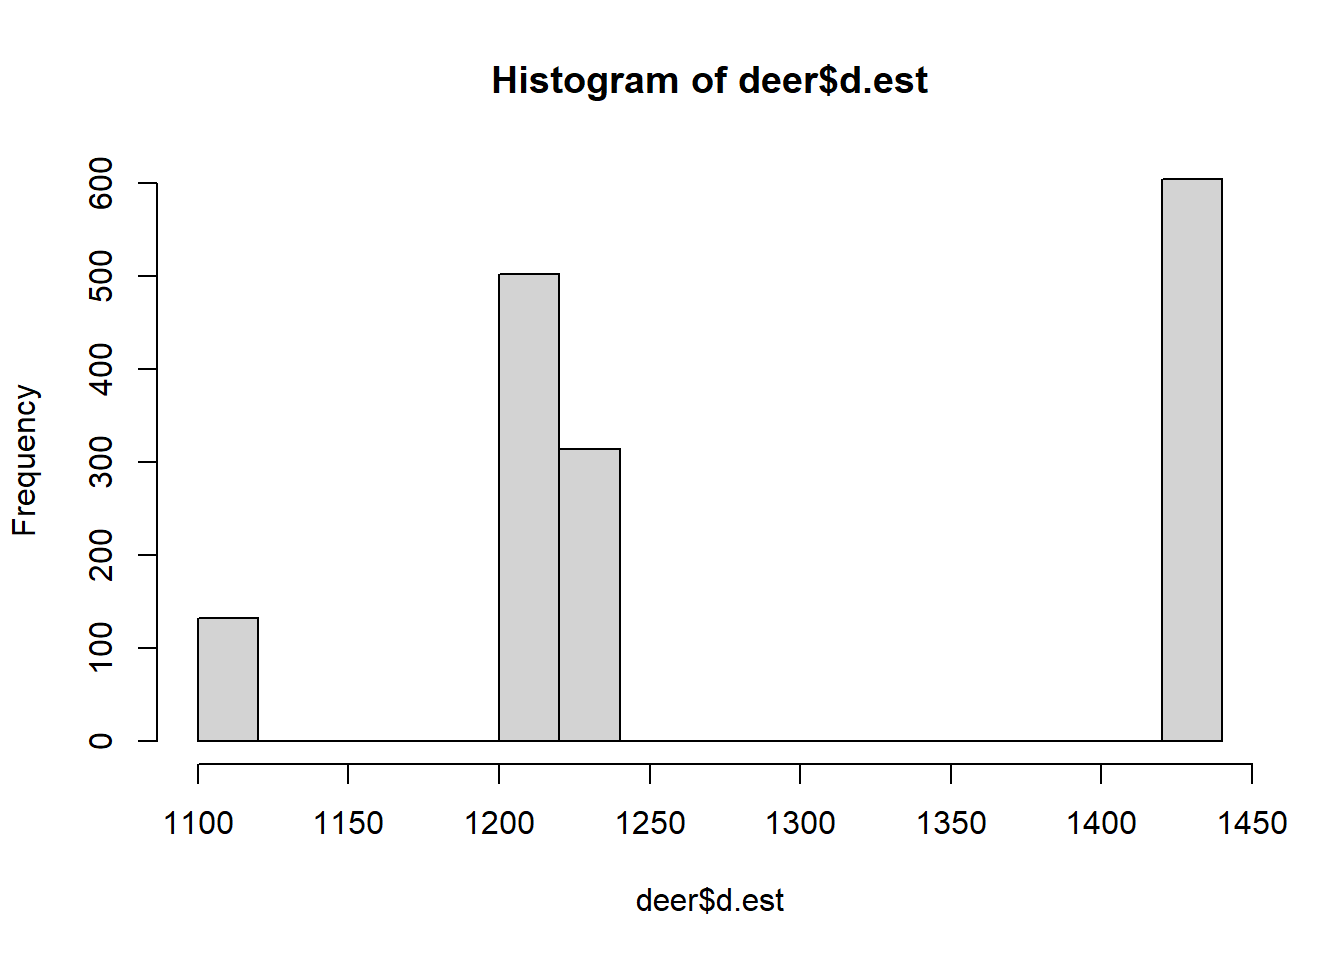
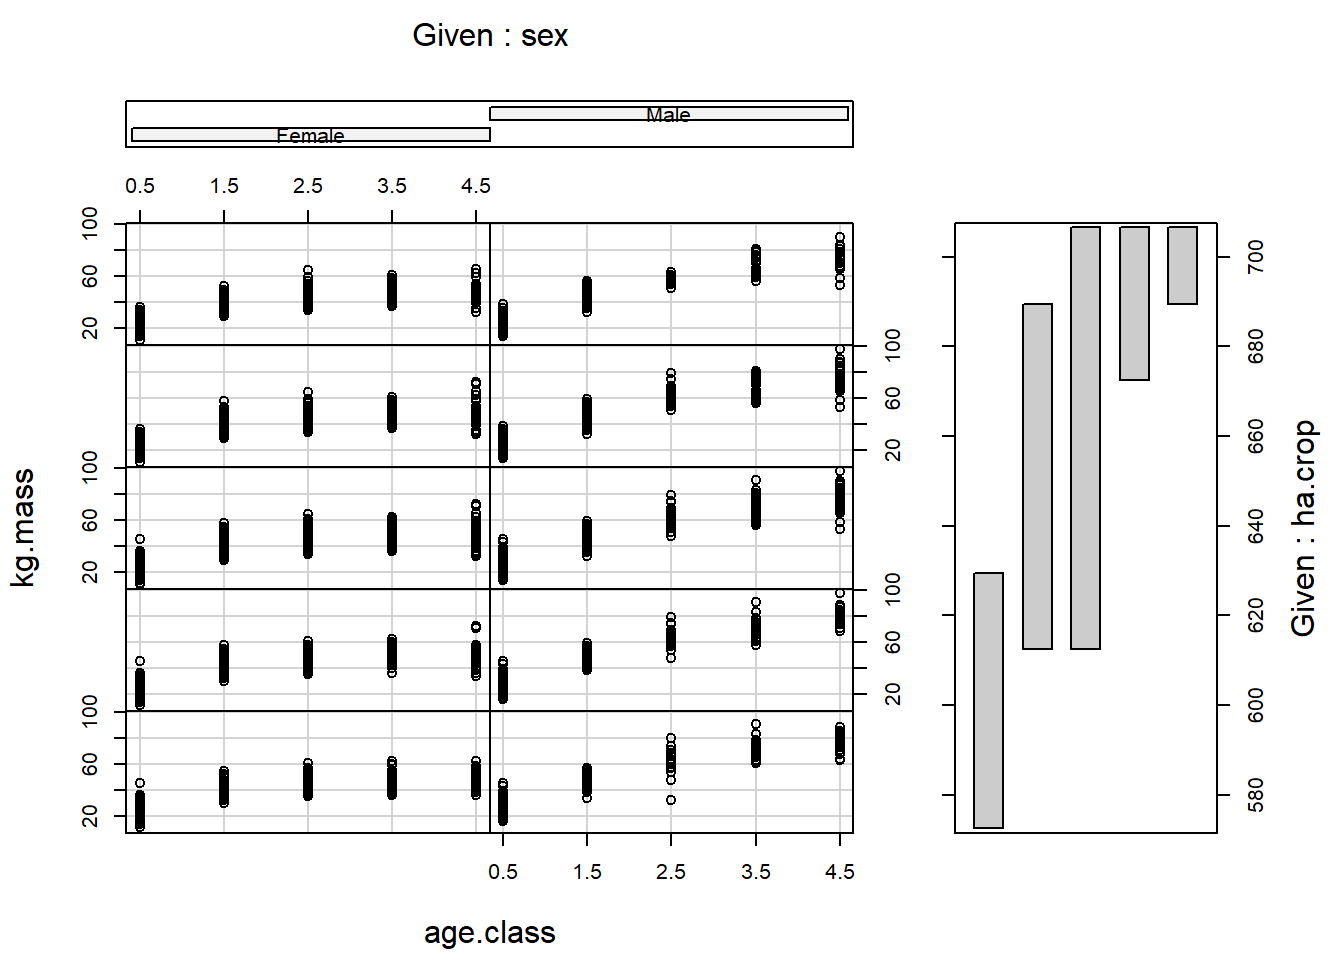
"final" bayesian mixed models lab

diff --git a/05-D-Bayesian-Mixed-Models.html b/05-D-Bayesian-Mixed-Models.html
@@ -11,7 +11,7 @@
 
 
 
-<title>Confidence Intervals for Mixed Models</title>
+<title>Bayesian Mixed Models: Choose your own adventure!</title>
 
 <script src="site_libs/header-attrs-2.31/header-attrs.js"></script>
 <script src="site_libs/jquery-3.6.0/jquery-3.6.0.min.js"></script>
@@ -578,22 +578,12 @@ div.tocify {
 
 
 
-<h1 class="title toc-ignore">Confidence Intervals for Mixed Models</h1>
+<h1 class="title toc-ignore">Bayesian Mixed Models: Choose your own
+adventure!</h1>
 
 </div>
 
 
-<p><strong>Assigned Reading:</strong></p>
-<ul>
-<li>Shipley, J. R., Twining, C. W., Taff, C. C., Vitousek, M. N., &amp;
-Winkler, D. W. (2022). Selection counteracts developmental plasticity in
-body-size responses to climate change. Nature Climate Change, 12(9),
-863-868.</li>
-<li>Christensen, S. A., Ruder, M. G., Williams, D. M., Porter, W. F.,
-&amp; Stallknecht, D. E. (2020). The role of drought as a determinant of
-hemorrhagic disease in the eastern United States. Global Change Biology,
-26(7), 3799-3808.</li>
-</ul>
 <div id="overview" class="section level2">
 <h2>Overview</h2>
 <p>This week, it’s “choose your own adventure” time. I want you to work
@@ -661,16 +651,12 @@ deer.</strong></p>
 <span id="cb1-39"><a href="#cb1-39" tabindex="-1"></a>deer<span class="sc">$</span>age.class <span class="ot">&lt;-</span> <span class="fu">factor</span>(deer<span class="sc">$</span>age.class)</span>
 <span id="cb1-40"><a href="#cb1-40" tabindex="-1"></a></span>
 <span id="cb1-41"><a href="#cb1-41" tabindex="-1"></a><span class="co"># Very briefly explore:</span></span>
-<span id="cb1-42"><a href="#cb1-42" tabindex="-1"></a><span class="fu">hist</span>(deer<span class="sc">$</span>d.est)</span></code></pre></div>
+<span id="cb1-42"><a href="#cb1-42" tabindex="-1"></a><span class="fu">coplot</span>(kg.mass <span class="sc">~</span> age.class <span class="sc">|</span> sex <span class="sc">*</span> ha.crop, </span>
+<span id="cb1-43"><a href="#cb1-43" tabindex="-1"></a>       <span class="at">data =</span> deer) </span></code></pre></div>
 <p><img src="05-D-Bayesian-Mixed-Models_files/figure-html/unnamed-chunk-2-1.png" alt="" width="672" /></p>
-<div class="sourceCode" id="cb2"><pre class="sourceCode r"><code class="sourceCode r"><span id="cb2-1"><a href="#cb2-1" tabindex="-1"></a><span class="fu">sort</span>(<span class="fu">unique</span>(deer<span class="sc">$</span>d.est))</span></code></pre></div>
-<pre><code>## [1] 1115 1219 1240 1427</code></pre>
-<div class="sourceCode" id="cb4"><pre class="sourceCode r"><code class="sourceCode r"><span id="cb4-1"><a href="#cb4-1" tabindex="-1"></a><span class="fu">coplot</span>(kg.mass <span class="sc">~</span> age.class <span class="sc">|</span> sex <span class="sc">*</span> ha.crop, </span>
-<span id="cb4-2"><a href="#cb4-2" tabindex="-1"></a>       <span class="at">data =</span> deer) </span></code></pre></div>
+<div class="sourceCode" id="cb2"><pre class="sourceCode r"><code class="sourceCode r"><span id="cb2-1"><a href="#cb2-1" tabindex="-1"></a><span class="fu">coplot</span>(kg.mass <span class="sc">~</span> d.est <span class="sc">|</span> sex <span class="sc">*</span> ha.crop, </span>
+<span id="cb2-2"><a href="#cb2-2" tabindex="-1"></a>       <span class="at">data =</span> deer) </span></code></pre></div>
 <p><img src="05-D-Bayesian-Mixed-Models_files/figure-html/unnamed-chunk-2-2.png" alt="" width="672" /></p>
-<div class="sourceCode" id="cb5"><pre class="sourceCode r"><code class="sourceCode r"><span id="cb5-1"><a href="#cb5-1" tabindex="-1"></a><span class="fu">coplot</span>(kg.mass <span class="sc">~</span> d.est <span class="sc">|</span> sex <span class="sc">*</span> ha.crop, </span>
-<span id="cb5-2"><a href="#cb5-2" tabindex="-1"></a>       <span class="at">data =</span> deer) </span></code></pre></div>
-<p><img src="05-D-Bayesian-Mixed-Models_files/figure-html/unnamed-chunk-2-3.png" alt="" width="672" /></p>
 </div>
 
 
